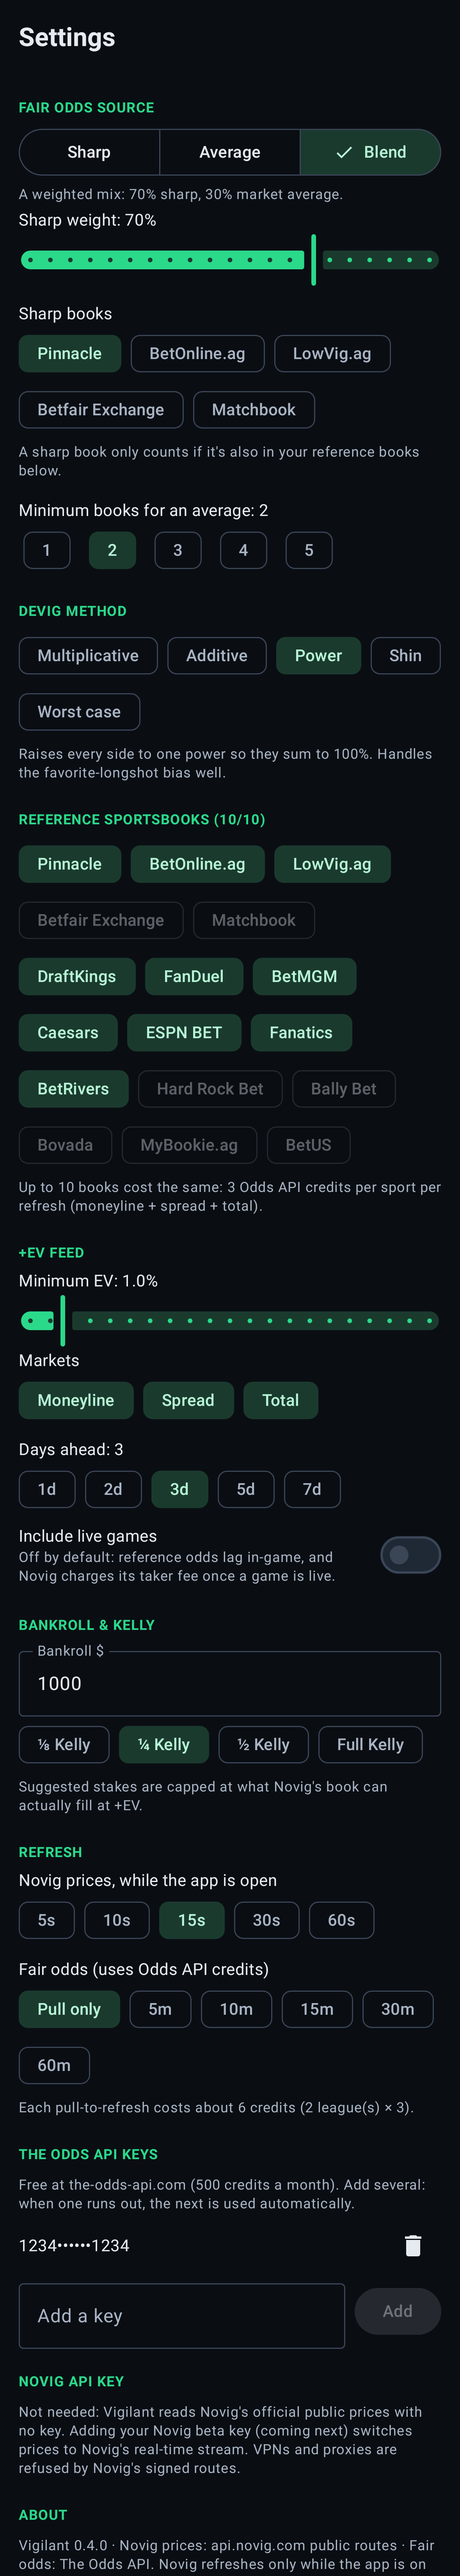
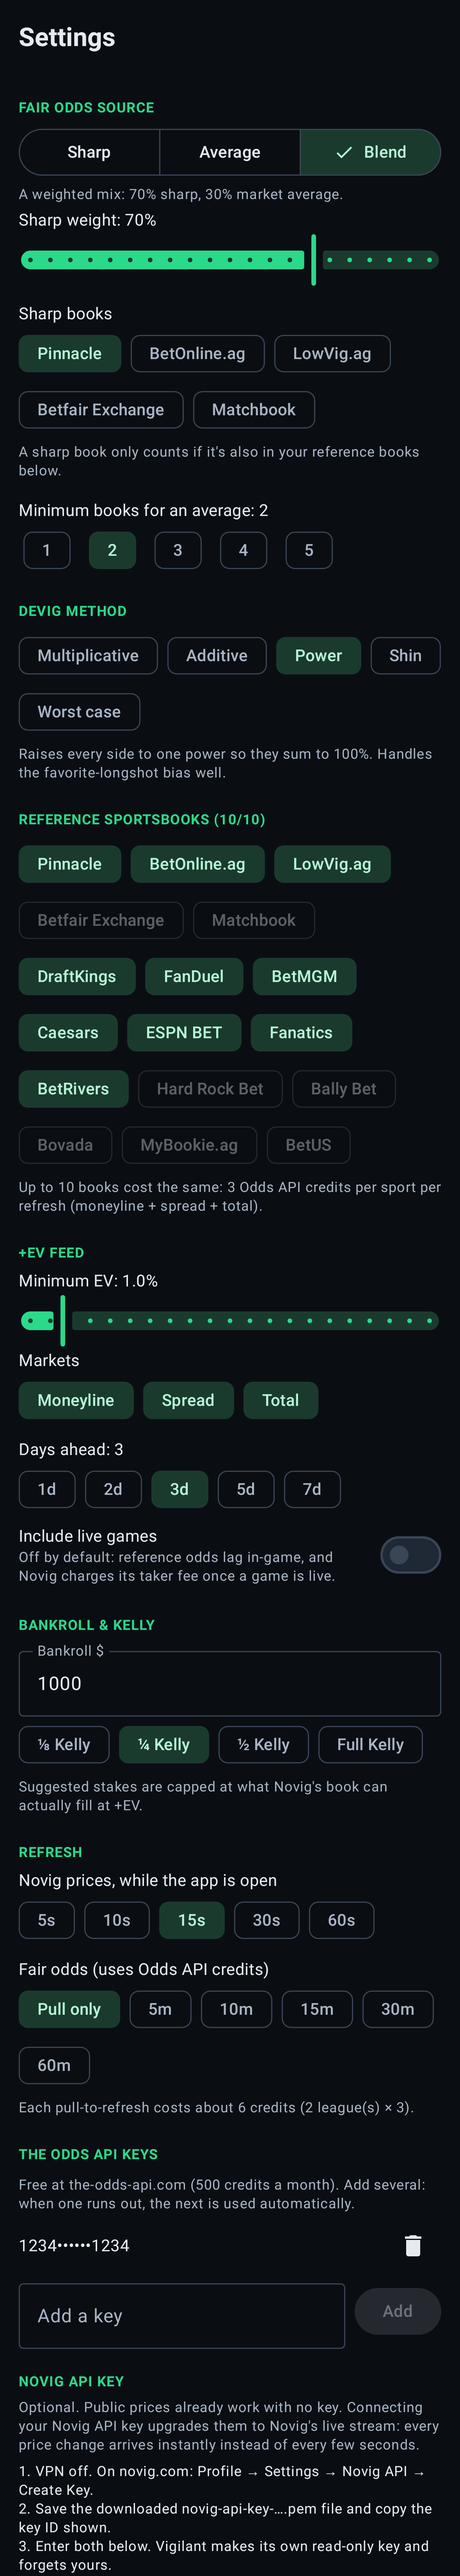
auto-checkpoint: 2026-09-25T06:03:06Z
Automatic hook checkpoint — not a reviewed commit. See CHECKPOINT.md
for where the session actually stands.

Changed region(s): [[0.0305, 0.9364, 0.9466, 0.9988]]

diff --git a/app/src/test/kotlin/com/tjshea/vigilant/app/ScreenshotTest.kt b/app/src/test/kotlin/com/tjshea/vigilant/app/ScreenshotTest.kt
@@ -1,6 +1,8 @@
 package com.tjshea.vigilant.app
 
+import androidx.compose.foundation.layout.padding
 import androidx.compose.material3.Surface
+import androidx.compose.ui.unit.dp
 import androidx.compose.material3.MaterialTheme
 import androidx.compose.ui.test.junit4.createComposeRule
 import androidx.compose.ui.test.assertIsDisplayed
@@ -72,5 +74,25 @@ class ScreenshotTest {
     @Test fun noKeyPointsToTheGamesTabInsteadOfClaimingZeroGames() {
         compose.setContent { VigilantTheme { FeedScreen(SampleScan.state(withKey = false), {}, {}, {}, { _, _ -> }) } }
         compose.onNodeWithText("Fair odds need a key").assertIsDisplayed()
+    }
+
+    @Config(qualifiers = "w393dp-h1400dp-xxhdpi")
+    @Test fun novigKeySetup() = shoot("6_novig_key_setup") {
+        androidx.compose.foundation.layout.Column(androidx.compose.ui.Modifier.padding(16.dp)) {
+            com.tjshea.vigilant.app.ui.NovigKeySection(NovigUi(), { _, _ -> }, {}, {}, {})
+        }
+    }
+
+    @Test fun novigKeyConnected() = shoot("6b_novig_key_connected") {
+        androidx.compose.foundation.layout.Column(androidx.compose.ui.Modifier.padding(16.dp)) {
+            com.tjshea.vigilant.app.ui.NovigKeySection(
+                NovigUi(
+                    connection = com.tjshea.vigilant.data.novig.signing.NovigConnection("3f2504e0-4f89-11d3-9a0c-0305e82c9a1b", "a", "t", false),
+                    stream = com.tjshea.vigilant.data.novig.stream.StreamState.Live(0, 14),
+                    message = "Novig accepted the key (signature, clock and network all OK).",
+                ),
+                { _, _ -> }, {}, {}, {},
+            )
+        }
     }
 }
